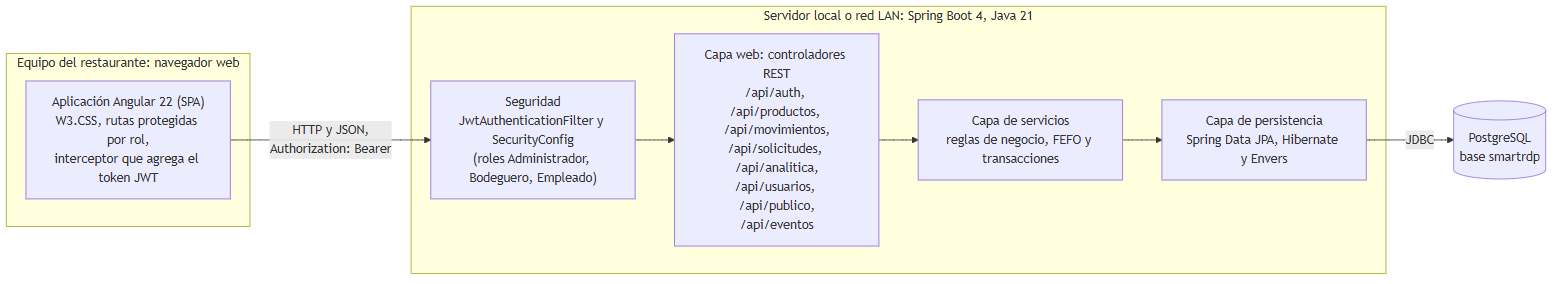
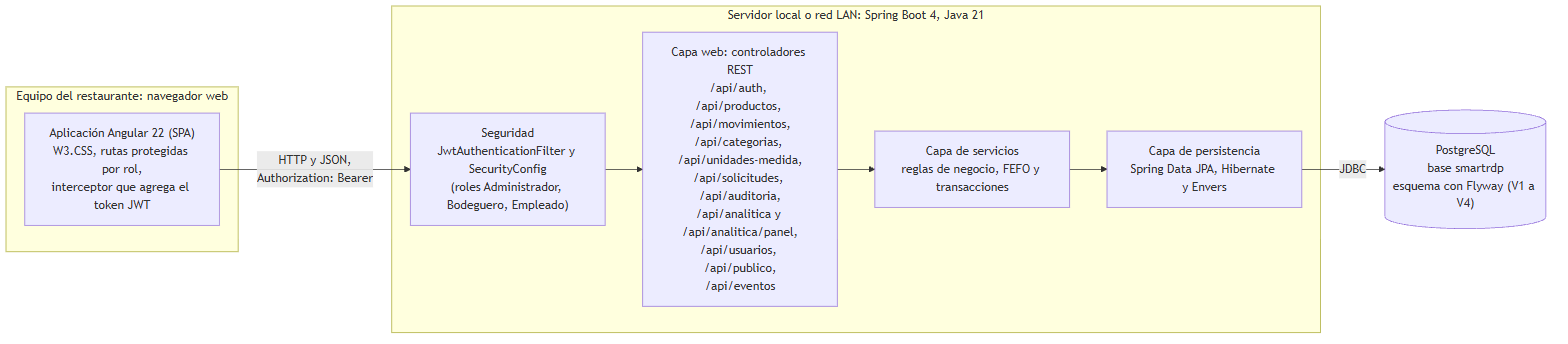
docs: actualiza los diagramas UML con el panel de analítica

Changed region(s): [[0.0, 0.0, 1.0, 0.9859], [0.0625, 0.4789, 0.0938, 0.507]]

diff --git a/FASE 2/EVIDENCIAS PROYECTO/EVIDENCIAS DE DOCUMENTACIÓN/08-DIAGRAMAS-UML.md b/FASE 2/EVIDENCIAS PROYECTO/EVIDENCIAS DE DOCUMENTACIÓN/08-DIAGRAMAS-UML.md
@@ -1,7 +1,7 @@
 # Diagramas UML — Smart RDP
 
 > Proyecto de Título PTY4614-002D · Equipo 3 · Duoc UC, Sede San Bernardo
-> Versión: borrador para revisión · 13-11-2026 (se agregó el diagrama de componentes)
+> Versión: borrador para revisión · 26-11-2026 (se actualizó con el panel de analítica)
 
 ## 1. Alcance
 
@@ -16,11 +16,13 @@ El proyecto documenta seis diagramas UML, suficientes para describir qué hace e
 | 5 | Arquitectura y despliegue | Estructura (despliegue, dibujado como diagrama de flujo) | Capas del sistema y dónde corren. |
 | 6 | Componentes | Estructura (componentes, dibujado como diagrama de flujo) | Módulos del frontend y del backend, sus dependencias y las interfaces entre ellos. |
 
-Los diagramas están escritos en [Mermaid](https://mermaid.js.org), que GitHub dibuja directamente en el navegador. El diagrama de casos de uso se dibuja con la sintaxis de diagramas de flujo de Mermaid siguiendo la notación UML (actores, casos de uso, línea de asociación y relaciones `include`), porque la sintaxis nativa de casos de uso de Mermaid (`usecase-beta`) es reciente y puede no estar disponible en la versión que usa GitHub.
+Los diagramas están escritos en [Mermaid](https://mermaid.js.org), que GitHub dibuja directamente en el navegador. El diagrama de casos de uso se dibuja con la sintaxis de diagramas de flujo de Mermaid siguiendo la notación UML (actores, casos de uso, línea de asociación y relaciones `include` y `extend`), porque la sintaxis nativa de casos de uso de Mermaid (`usecase-beta`) es reciente y puede no estar disponible en la versión que usa GitHub.
 
 ## 2. Diagrama de casos de uso
 
-El **Administrador** ve Analítica y administra usuarios. El **Bodeguero** administra todo lo demás pero no a los usuarios, es el único que aprueba solicitudes, puede cargar entradas de stock desde una planilla Excel y lleva el calendario de eventos de la bodega. El **Empleado** no inicia sesión: usa la vista pública y se identifica con su nombre y su contraseña en cada acción.
+El **Administrador** administra usuarios, usa el panel de analítica y consulta en solo lectura productos, movimientos, stock, alertas y calendario. El **Bodeguero** administra todo lo demás pero no a los usuarios, es el único que aprueba solicitudes, registra las entradas (una compra exige el costo unitario, que alimenta el historial de precios), puede cargarlas desde una planilla Excel, lleva el calendario de eventos de la bodega y también usa el panel de analítica. El **Empleado** no inicia sesión: usa la vista pública y se identifica con su nombre y su contraseña en cada acción; no accede al panel.
+
+El panel de analítica es un caso base, **Consultar panel de analítica**, cuyos bloques (consumo neto, pérdidas, solicitado, pedidos por persona y productos más usados) comparten un mismo filtro: rango de fechas, agrupación por día, semana o mes, categoría, productos y persona. Siempre incluye los vencimientos próximos; el historial de precios de compra (al elegir un producto), los productos clave (una lista propia de cada usuario) y la exportación a Excel con los filtros aplicados son extensiones que el usuario activa cuando las necesita.
 
 ```mermaid
 flowchart LR
@@ -30,12 +32,12 @@ flowchart LR
 
     subgraph SIS["Sistema Smart RDP"]
         uc1(["Administrar usuarios"])
-        uc2(["Consultar analítica y exportar movimientos"])
+        uc17(["Consultar productos, movimientos y calendario en solo lectura"])
+        uc7(["Consultar stock y alertas de vencimiento"])
         uc3(["Gestionar productos"])
         uc4(["Administrar categorías y unidades de medida"])
-        uc5(["Registrar entrada con lote y vencimiento"])
+        uc5(["Registrar entrada con lote, vencimiento y costo de compra"])
         uc6(["Registrar salida por FEFO"])
-        uc7(["Consultar stock y alertas de vencimiento"])
         uc8(["Aprobar o rechazar solicitudes"])
         uc9(["Consultar historial de movimientos y solicitudes"])
         uc10(["Crear pedido de insumos"])
@@ -45,17 +47,26 @@ flowchart LR
         uc14(["Verificar identidad con contraseña"])
         uc15(["Cargar entradas desde Excel"])
         uc16(["Gestionar eventos del calendario"])
+        subgraph PAN["Panel de analítica"]
+            uc2(["Consultar panel de analítica con filtros compartidos"])
+            uc18(["Ver vencimientos próximos"])
+            uc19(["Ver historial de precios de compra"])
+            uc20(["Definir mis productos clave"])
+            uc21(["Exportar movimientos a Excel con los filtros"])
+        end
     end
 
     adm --- uc1
+    adm --- uc17
     adm --- uc2
+    adm --- uc7
 
     bod --- uc2
+    bod --- uc7
     bod --- uc3
     bod --- uc4
     bod --- uc5
     bod --- uc6
-    bod --- uc7
     bod --- uc8
     bod --- uc9
     bod --- uc15
@@ -69,11 +80,23 @@ flowchart LR
     uc10 -.->|"«include»"| uc14
     uc11 -.->|"«include»"| uc14
     uc12 -.->|"«include»"| uc14
+    uc2 -.->|"«include»"| uc18
+    %% Enlaces invisibles (~~~): solo ordenan el dibujo, no son relaciones UML.
+    adm ~~~ uc19
+    adm ~~~ uc20
+    adm ~~~ uc21
+    bod ~~~ uc19
+    bod ~~~ uc20
+    bod ~~~ uc21
+    emp ~~~ uc21
+    uc19 -.->|"«extend»"| uc2
+    uc20 -.->|"«extend»"| uc2
+    uc21 -.->|"«extend»"| uc2
 ```
 
 ## 3. Diagrama de clases del dominio
 
-Todas las entidades de negocio heredan de `BaseEntity` (`id`, `createdAt`, `updatedAt`). `Evento` es una agenda compartida de los bodegueros, sin historial ni triggers. Solo `Solicitud` y `Usuario` tienen historial con Hibernate Envers; `Operacion`, `Movimiento` y `Lote` son inmutables (`@Immutable`, y triggers en la base). El stock no es un atributo: se calcula con vistas.
+Todas las entidades de negocio heredan de `BaseEntity` (`id`, `createdAt`, `updatedAt`). `Evento` es una agenda compartida de los bodegueros, sin historial ni triggers. Solo `Solicitud` y `Usuario` tienen historial con Hibernate Envers; `Operacion`, `Movimiento` y `Lote` son inmutables (`@Immutable`, y triggers en la base). El stock no es un atributo: se calcula con vistas. `Lote.costoUnitario` es el costo con que entró el lote: en una compra es obligatorio y de él sale el historial de precios del panel; `Producto.costoUnitario` es solo un valor de referencia. `ProductoClave` (migración V4) es la lista personal de productos que cada usuario sigue en el panel de analítica: une un `Usuario` con un `Producto`, una sola vez por par, sin historial y con borrado en cascada.
 
 ```mermaid
 classDiagram
@@ -150,12 +173,15 @@ classDiagram
         -LocalTime hora
         -String descripcion
     }
+    class ProductoClave
 
 
     Rol "1" <-- "*" Usuario : tiene
     Categoria "1" <-- "*" Producto : clasifica
     UnidadMedida "1" <-- "*" Producto : mide
     Producto "1" <-- "*" Lote : tiene
+    Producto "1" <-- "*" ProductoClave : es clave
+    Usuario "1" <-- "*" ProductoClave : marca
     TipoOperacion "1" <-- "*" Operacion : clasifica
     Usuario "1" <-- "*" Operacion : registra
     Operacion "1" *-- "1..*" Movimiento : contiene
@@ -257,7 +283,7 @@ sequenceDiagram
 
 ## 6. Diagrama de arquitectura y despliegue
 
-La arquitectura es **cliente-servidor**: una aplicación de una sola página (SPA) en Angular consume una API REST de Spring Boot, que persiste en PostgreSQL. El backend es un **monolito modular en capas** (controlador, servicio, repositorio) con un paquete por dominio: `producto`, `movimiento`, `solicitud`, `usuario`, `catalogo`, `analitica`, `auditoria`, `evento`, `publico`. La seguridad es sin estado: el cliente envía un token JWT en cada petición y un filtro valida el rol antes de llegar al controlador.
+La arquitectura es **cliente-servidor**: una aplicación de una sola página (SPA) en Angular consume una API REST de Spring Boot, que persiste en PostgreSQL. El backend es un **monolito modular en capas** (controlador, servicio, repositorio) con un paquete por dominio: `producto`, `movimiento`, `solicitud`, `usuario`, `catalogo`, `analitica`, `auditoria`, `evento`, `publico`. La seguridad es sin estado: el cliente envía un token JWT en cada petición y un filtro valida el rol antes de llegar al controlador. El panel de analítica se sirve bajo `/api/analitica/panel/*` (resumen, consumo por período, productos más usados, pedidos por persona, precios y productos clave), junto a `/api/analitica/vencimientos` y `/api/analitica/exportar-movimientos`; todo `/api/analitica` es solo para Administrador y Bodeguero.
 
 ```mermaid
 flowchart LR
@@ -267,13 +293,13 @@ flowchart LR
 
     subgraph SRV["Servidor local o red LAN: Spring Boot 4, Java 21"]
         SEC["Seguridad<br/>JwtAuthenticationFilter y SecurityConfig<br/>(roles Administrador, Bodeguero, Empleado)"]
-        CTL["Capa web: controladores REST<br/>/api/auth, /api/productos, /api/movimientos,<br/>/api/solicitudes, /api/analitica,<br/>/api/usuarios, /api/publico,<br/>/api/eventos"]
+        CTL["Capa web: controladores REST<br/>/api/auth, /api/productos, /api/movimientos,<br/>/api/categorias, /api/unidades-medida,<br/>/api/solicitudes, /api/auditoria,<br/>/api/analitica y /api/analitica/panel,<br/>/api/usuarios, /api/publico,<br/>/api/eventos"]
         SVC["Capa de servicios<br/>reglas de negocio, FEFO y transacciones"]
         REP["Capa de persistencia<br/>Spring Data JPA, Hibernate y Envers"]
         SEC --> CTL --> SVC --> REP
     end
 
-    DB[("PostgreSQL<br/>base smartrdp")]
+    DB[("PostgreSQL<br/>base smartrdp<br/>esquema con Flyway (V1 a V4)")]
 
     SPA -- "HTTP y JSON,<br/>Authorization: Bearer" --> SEC
     REP -- "JDBC" --> DB
@@ -286,22 +312,26 @@ flowchart LR
 | Estilo general | Cliente-servidor con SPA y API REST | Separa la interfaz de las reglas de negocio y deja el frontend reutilizable. |
 | Organización del backend | Monolito modular en capas, un paquete por dominio | Es simple de desplegar en el restaurante y suficiente para un equipo de tres personas. |
 | Seguridad | Autenticación con JWT sin estado y control de acceso por rol (RBAC) | El servidor no guarda sesiones y cada ruta declara qué roles la usan. |
-| Persistencia | JPA con Hibernate sobre PostgreSQL; auditoría con Envers | Trazabilidad de quién cambió qué y cuándo, sin código manual en la lógica de negocio. |
+| Persistencia | JPA con Hibernate sobre PostgreSQL; auditoría con Envers; esquema versionado con Flyway (V4 agrega `productos_clave`) | Trazabilidad de quién cambió qué y cuándo, sin código manual en la lógica de negocio; cada cambio de esquema queda como una migración. |
 | Despliegue | Local o en la red LAN del restaurante; el `docker-compose.yml` levanta PostgreSQL, el backend y el frontend (nginx) | Corresponde a la restricción de conectividad local del proyecto. La decisión final de infraestructura sigue pendiente con el cliente. |
 
 ## 7. Diagrama de componentes
 
-Muestra los módulos del sistema y quién depende de quién. En el backend hay un componente por dominio (el mismo nombre que su paquete Java), y cada uno tiene su controlador, servicio y repositorio. Las flechas son las dependencias reales entre paquetes, tomadas de los `import` del código; para que el diagrama se lea, se muestran las principales y se omiten las que pasan por el componente `exception` y por `shared`, que usan casi todos.
+Muestra los módulos del sistema y quién depende de quién. En el backend hay un componente por dominio (el mismo nombre que su paquete Java), y cada uno tiene su controlador, servicio y repositorio. Las flechas son las dependencias reales entre paquetes, tomadas de los `import` del código; para que el diagrama se lea, se muestran las principales y se omiten las que pasan por el componente `exception` y por `shared`, que usan casi todos. En el frontend, `features/analitica` aparece aparte porque, además de `core` y `shared`, usa el `ProductoService` de `features/productos` para la lista de productos del filtro.
 
 ```mermaid
 flowchart LR
     subgraph FE["Frontend: Angular 22 (SPA) servida por nginx o ng serve"]
         direction TB
         FCORE["core<br/>sesión y guardias de ruta,<br/>interceptor que agrega el JWT,<br/>manejo de errores y avisos"]
-        FFEAT["features<br/>productos, movimientos, solicitudes,<br/>calendario, analítica, usuarios,<br/>vista pública del empleado"]
-        FSH["shared<br/>modal, paginación, confirmación,<br/>estados y calendario"]
+        FFEAT["features<br/>productos, movimientos, solicitudes,<br/>calendario, usuarios,<br/>vista pública del empleado"]
+        FANA["features/analitica<br/>panel con filtros compartidos,<br/>gráficos, vencimientos, precios<br/>y productos clave"]
+        FSH["shared<br/>modal, paginación,<br/>orden, confirmación,<br/>estados y calendario"]
         FFEAT --> FCORE
         FFEAT --> FSH
+        FANA --> FCORE
+        FANA --> FSH
+        FANA -- "ProductoService" --> FFEAT
     end
 
     subgraph BE["Backend: Spring Boot 4, Java 21 (monolito modular)"]
@@ -315,7 +345,7 @@ flowchart LR
             SOL["solicitud<br/>(pedidos y devoluciones)"]
             USU["usuario"]
             EVE["evento"]
-            ANA["analitica"]
+            ANA["analitica<br/>(panel y productos clave)"]
             AUD["auditoria"]
             PUB["publico<br/>(vista del empleado)"]
         end
@@ -327,6 +357,8 @@ flowchart LR
         SOL --> MOV
         SOL --> USU
         ANA --> MOV
+        ANA --> PRO
+        ANA --> USU
         AUD --> SOL
         PUB --> SOL
         PUB --> USU
@@ -346,6 +378,8 @@ Versión en imagen: [DIAGRAMA DE COMPONENTES.png](DIAGRAMA%20DE%20COMPONENTES.pn
 | Desde | Hacia | Interfaz | Detalle |
 |---|---|---|---|
 | Frontend (`core`) | Seguridad del backend | API REST sobre HTTP y JSON | Cada petición lleva `Authorization: Bearer <token JWT>`; el filtro valida el token y el rol antes de llegar al controlador. |
+| Frontend (`features/analitica`) | `analitica` | API REST `/api/analitica/panel/*`, `/api/analitica/vencimientos` y `/api/analitica/exportar-movimientos` | Todos los bloques reciben el mismo filtro (fechas, agrupación, categoría, productos y persona); la exportación devuelve un archivo `.xlsx` con esos filtros. Las listas largas usan el paginador compartido `app-paginacion` de `shared`. |
+| `analitica` | `movimiento`, `producto` y `usuario` | Llamadas a métodos dentro del mismo proceso | Lee el libro de movimientos y las vistas de inventario, los productos y los usuarios (solicitantes y usuario autenticado, dueño de sus productos clave). |
 | Componentes de dominio | PostgreSQL | JDBC, mediante JPA, Hibernate y Envers | El esquema lo crean y versionan las migraciones de Flyway; Envers escribe las tablas de auditoría. |
 | Cualquier componente de dominio | `exception` | Manejador global de excepciones | Convierte los errores de negocio, de validación y de base de datos en respuestas HTTP con un mensaje legible. |
 
